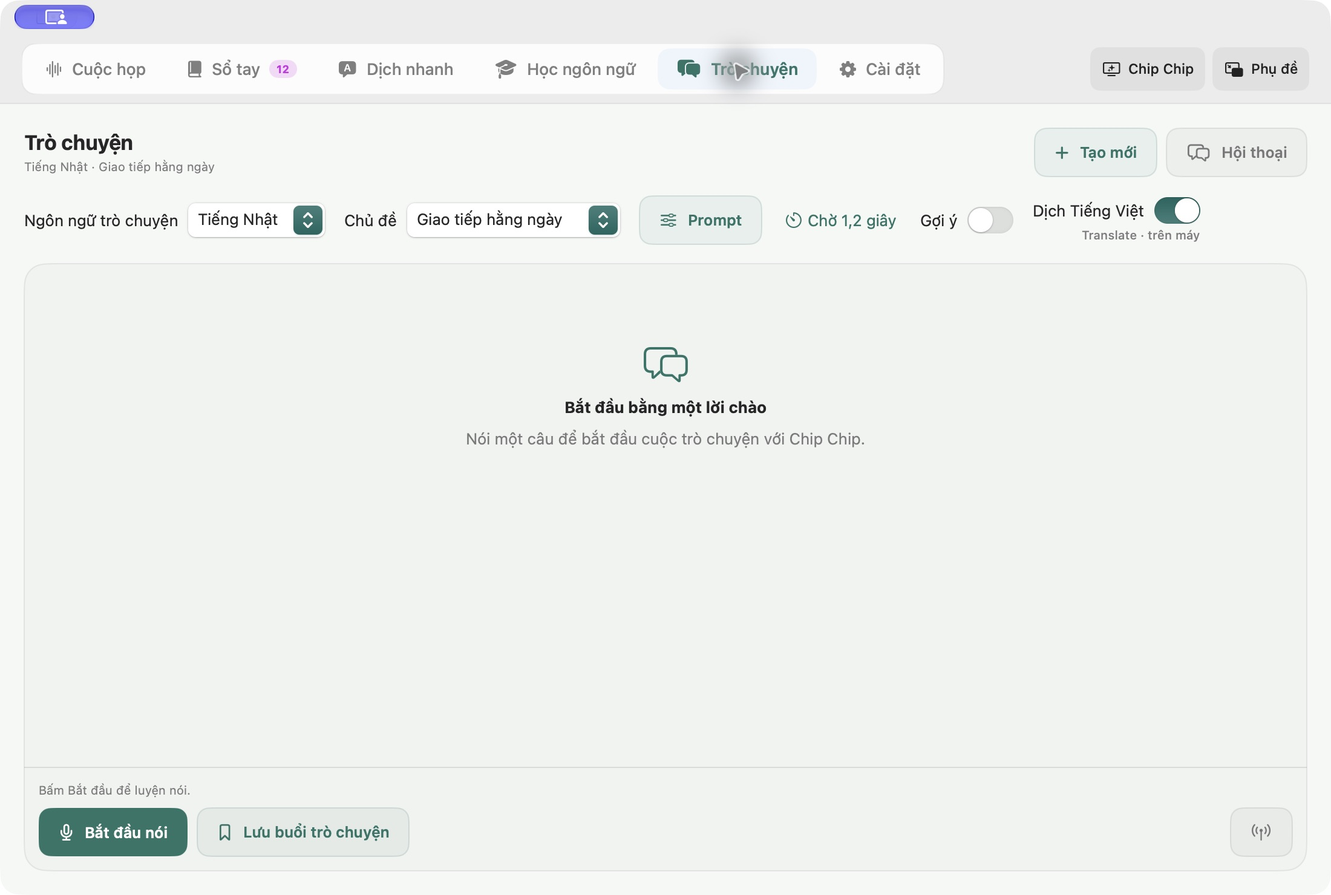
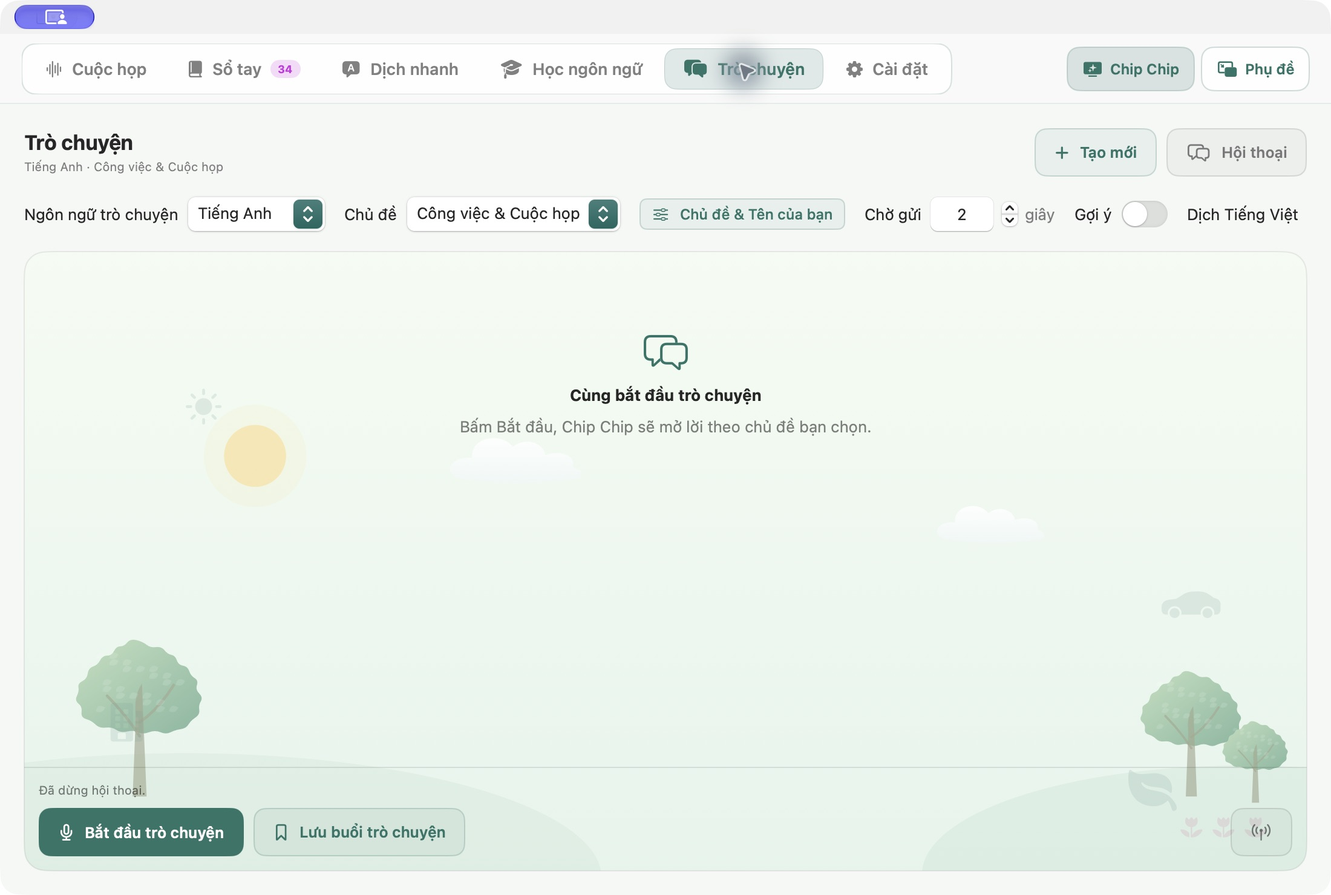
Refresh website feature guide and app screenshots

diff --git a/docs/index.html b/docs/index.html
@@ -5,18 +5,18 @@
 <title>Trans Tools — Hiểu cuộc họp. Tự tin giao tiếp.</title>
 <meta name="description" content="Dịch âm thanh hệ thống, phụ đề nổi, dịch nhanh và học từ vựng trên máy tính. Cùng trợ lý Chip Chip đáng yêu.">
 <meta property="og:title" content="Trans Tools — Hiểu cuộc họp. Tự tin giao tiếp."><meta property="og:description" content="Bộ công cụ ngôn ngữ cho công việc và học tập, cùng trợ lý Chip Chip."><meta property="og:image" content="https://trans-tools.vercel.app/assets/screenshot-dashboard.png">
-<meta name="theme-color" content="#f6f8f6"><link rel="icon" href="assets/app-icon.png"><link rel="stylesheet" href="site.css">
+<meta name="theme-color" content="#f6f8f6"><link rel="icon" href="assets/app-icon.png"><link rel="stylesheet" href="site.css?v=20261007">
 </head>
 <body>
 <nav class="nav wrap" aria-label="Điều hướng chính"><a class="brand" href="#"><img src="assets/app-icon.png" alt="" width="32" height="32">Trans Tools</a><div class="nav-links"><a href="#features">Tính năng</a><a href="#chipchip">Chip Chip</a><a href="guide">Hướng dẫn</a><a href="#start">Bắt đầu</a></div><a class="button small dark" href="#downloads">Tải ứng dụng <span aria-hidden="true">↗</span></a></nav>
 <main>
-<header class="hero wrap"><div class="hero-copy"><p class="eyebrow"><span class="dot"></span> NGƯỜI BẠN NGÔN NGỮ CỦA BẠN</p><h1>Hiểu cuộc họp.<br><span>Tự tin giao tiếp.</span></h1><p class="intro">Nghe, dịch, ghi nhớ. Trans Tools mang phụ đề trực tiếp, dịch nhanh và sổ từ vựng về cùng một nơi — ngay trên máy tính của bạn. Trò chuyện cùng AI theo chủ đề bạn chọn; học tiếng Anh, Nhật, Trung và Hàn theo mục tiêu hằng ngày.</p><div class="actions"><a class="button dark" href="#downloads">Tải Trans Tools <span aria-hidden="true">↓</span></a><a class="text-link" href="#features">Khám phá ứng dụng <span aria-hidden="true">↘</span></a></div><p class="hero-meta">v1.4.1 <span>•</span> macOS & Windows <span>•</span> Translate & các bộ dịch AI</p></div><div class="hero-art"><div class="orbit one"></div><div class="orbit two"></div><div class="hello">Xin chào, mình là Chip Chip! <span>✦</span></div><img class="hero-mascot" src="assets/chip-chip-front.png" alt="Chip Chip, robot trắng đeo tai nghe mint với đôi mắt xanh và nụ cười nhỏ" width="621" height="783"><div class="garden"><span>✿</span><i></i><span>✿</span></div><div class="float-note note-one"><b>EN → VI</b><span>Ngôn ngữ gần nhau hơn.</span></div><div class="float-note note-two"><span class="pulse">▂ ▅ ▃ ▆ ▂</span><b>Nghe. Hiểu. Kết nối.</b></div></div></header>
+<header class="hero wrap"><div class="hero-copy"><p class="eyebrow"><span class="dot"></span> NGƯỜI BẠN NGÔN NGỮ CỦA BẠN</p><h1>Hiểu cuộc họp.<br><span>Tự tin giao tiếp.</span></h1><p class="intro">Nghe, dịch, ghi nhớ. Trans Tools mang phụ đề trực tiếp, dịch nhanh và sổ từ vựng về cùng một nơi — ngay trên máy tính của bạn. Trò chuyện cùng AI theo chủ đề bạn chọn; học tiếng Anh, Nhật, Trung và Hàn theo mục tiêu hằng ngày.</p><div class="actions"><a class="button dark" href="#downloads">Tải Trans Tools <span aria-hidden="true">↓</span></a><a class="text-link" href="#features">Khám phá ứng dụng <span aria-hidden="true">↘</span></a></div><p class="hero-meta">v1.4.2 <span>•</span> Mac & Windows <span>•</span> Translate & các bộ dịch AI</p></div><div class="hero-art"><div class="orbit one"></div><div class="orbit two"></div><div class="hello">Xin chào, mình là Chip Chip! <span>✦</span></div><img class="hero-mascot" src="assets/chip-chip-front.png" alt="Chip Chip, robot trắng đeo tai nghe mint với đôi mắt xanh và nụ cười nhỏ" width="621" height="783"><div class="garden"><span>✿</span><i></i><span>✿</span></div><div class="float-note note-one"><b>EN → VI</b><span>Ngôn ngữ gần nhau hơn.</span></div><div class="float-note note-two"><span class="pulse">▂ ▅ ▃ ▆ ▂</span><b>Nghe. Hiểu. Kết nối.</b></div></div></header>
 <div class="use-cases wrap"><span>DÀNH CHO MỖI NGÀY CỦA BẠN</span><p>Họp quốc tế</p><p>Đọc & viết</p><p>Học ngoại ngữ</p><p>Làm việc mỗi ngày</p></div>
-<section id="features" class="section wrap"><div class="section-head"><div><p class="eyebrow">MỘT APP, NHIỀU CÁCH KẾT NỐI</p><h2>Từ cuộc họp đến<br>những câu chuyện hằng ngày.</h2></div><p>Giao diện thật, tính năng thật.<br>Chọn một mục để xem Trans Tools đang làm gì.</p></div><div class="showcase"><div class="tabs" role="tablist" aria-label="Xem tính năng"><button role="tab" id="tab-meeting" aria-controls="feature-panel" aria-selected="true" data-feature="meeting">01 · Cuộc họp</button><button role="tab" id="tab-translate" aria-controls="feature-panel" aria-selected="false" tabindex="-1" data-feature="translate">02 · Dịch nhanh</button><button role="tab" id="tab-reader" aria-controls="feature-panel" aria-selected="false" tabindex="-1" data-feature="reader">03 · Đọc văn bản</button><button role="tab" id="tab-learning" aria-controls="feature-panel" aria-selected="false" tabindex="-1" data-feature="learning">04 · Học ngôn ngữ</button><button role="tab" id="tab-alphabet" aria-controls="feature-panel" aria-selected="false" tabindex="-1" data-feature="alphabet">05 · Chữ & Viết</button><button role="tab" id="tab-conversation" aria-controls="feature-panel" aria-selected="false" tabindex="-1" data-feature="conversation">06 · Trò chuyện</button><button role="tab" id="tab-voices" aria-controls="feature-panel" aria-selected="false" tabindex="-1" data-feature="voices">07 · Giọng đọc</button><button role="tab" id="tab-storage" aria-controls="feature-panel" aria-selected="false" tabindex="-1" data-feature="storage">08 · Lưu trữ</button></div><div id="feature-panel" role="tabpanel" aria-labelledby="tab-meeting"><div class="feature-copy"><div><span id="feature-tag" class="tag">ÂM THANH → VĂN BẢN</span><h3 id="feature-title">Theo kịp cuộc họp, bằng ngôn ngữ của bạn.</h3></div><p id="feature-description">Chọn âm thanh hệ thống hoặc ứng dụng cần nghe trước khi bắt đầu. Xem tiếng gốc, bản dịch hoặc phụ đề song ngữ; mở phụ đề nổi để theo dõi trong lúc làm việc.</p></div><button class="screenshot-button" aria-label="Phóng to ảnh giao diện"><img id="feature-image" src="assets/screenshot-dashboard.png" alt="Giao diện cuộc họp Trans Tools với nút chọn nguồn âm thanh và bắt đầu" width="980" height="720"><span>Xem ảnh lớn ↗</span></button></div><p class="capture-caption">Chụp trực tiếp từ app ngày 04/10/2026 · Giao diện trước khi đóng gói v1.4.1.</p></div><div class="feature-grid"><article><span class="icon">↗</span><h3>Âm thanh từ máy tính</h3><p>Nghe âm thanh hệ thống hoặc ứng dụng họp. Chọn nguồn phù hợp, theo dõi cuộc trò chuyện ngay trên màn hình.</p></article><article><span class="icon">⌥</span><h3>Dịch ngay nơi bạn đang đọc</h3><p>Bôi đen văn bản, nhấn Option + D để dịch. Option + F sửa ngữ pháp; Option + T mở Dịch nhanh. Chụp & dịch màn hình giúp đọc chữ trong hình ảnh; kiểm tra và sửa nội dung trước khi dịch.</p></article><article><span class="icon">✦</span><h3>Bộ dịch theo cách bạn làm việc</h3><p>Translate, Google Dịch hoặc kết nối Gemini, OpenAI, DeepSeek, Claude bằng khóa kết nối. AI có tùy chọn chuyên ngành và gợi ý trả lời.</p></article></div><p><a class="text-link" href="guide">Hướng dẫn trò chuyện, giọng đọc & dịch màn hình ↗</a></p></section>
-<section class="section wrap" aria-labelledby="new-features-title"><div class="section-head"><div><p class="eyebrow">THÊM CÁCH HỌC VÀ GIAO TIẾP</p><h2 id="new-features-title">Chọn câu chuyện.<br>Chọn cách lắng nghe.</h2></div><p>Có trong phiên bản 1.4.1.<br>Chọn tính năng phù hợp với nhu cầu của bạn.</p></div><div class="feature-grid"><article><span class="icon">☏</span><h3>Trò chuyện theo chủ đề</h3><p>Mở tab Trò chuyện, chọn công việc, du lịch, phỏng vấn hay công nghệ. Thêm prompt để Chip Chip đóng vai người bạn muốn luyện cùng. Lưu và tiếp tục buổi nói với đúng bối cảnh.</p></article><article><span class="icon">♪</span><h3>Giọng tự nhiên Local</h3><p>Chọn công cụ và giọng riêng cho từng ngôn ngữ. Supertonic 3 đọc offline bằng tiếng Việt, Anh, Nhật và Hàn; VieNeu-TTS v3 Turbo là lựa chọn bổ sung cho tiếng Việt. Tải khi cần, dùng chung cho trò chuyện và đọc văn bản.</p></article><article><span class="icon">↔</span><h3>Phụ đề theo từng câu</h3><p>Tách câu theo dấu câu và giới hạn độ dài đoạn nói liên tục. Giữ phần đang nói dở, chờ thêm ngữ cảnh cho cụm ngắn và giữ bản dịch trước trong khi chờ câu mới.</p></article></div></section>
-<section class="section wrap" aria-labelledby="tools-title"><div class="section-head"><div><p class="eyebrow">TÙY CHỈNH THEO CÁCH BẠN HỌC</p><h2 id="tools-title">Nghe dễ dàng hơn.<br>Quản lý rõ ràng hơn.</h2></div><p>Các tiện ích mới trong phiên bản 1.4.1.<br>Tìm hướng dẫn chi tiết ngay bên dưới.</p></div><div class="feature-grid"><article><span class="icon" aria-hidden="true">♪</span><h3>Đọc văn bản &amp; lưu audio</h3><p>Dán đoạn văn, chọn ngôn ngữ, giọng và tốc độ. Lưu WAV với mô hình Local đã cài hoặc MP3 với Edge. Tùy chọn AI chuẩn hóa cách đọc số La Mã, ngày tháng và tỷ lệ; văn bản gốc giữ nguyên.</p></article><article><span class="icon" aria-hidden="true">⚙</span><h3>Chọn AI và model khả dụng</h3><p>Lưu khóa kết nối rồi tải danh sách model từ nhà cung cấp. Chọn model riêng cho Gemini, OpenAI, Claude hoặc DeepSeek; cập nhật lại danh sách khi cần.</p></article><article><span class="icon" aria-hidden="true">▤</span><h3>Biết dữ liệu đang chiếm bao nhiêu</h3><p>Xem dung lượng mô hình, bản ghi phát âm và cache trong Lưu trữ &amp; Dữ liệu. Mở thư mục, dọn cache hoặc gỡ mô hình vào Thùng rác. Sổ tay, từ vựng và khóa kết nối được giữ lại.</p></article></div><p><a class="text-link" href="guide#voices">Chọn giọng, lưu audio &amp; quản lý dữ liệu ↗</a></p></section>
+<section id="features" class="section wrap"><div class="section-head"><div><p class="eyebrow">MỘT APP, NHIỀU CÁCH KẾT NỐI</p><h2>Từ cuộc họp đến<br>những câu chuyện hằng ngày.</h2></div><p>Giao diện thật, tính năng thật.<br>Chọn một mục để xem Trans Tools đang làm gì.</p></div><div class="showcase"><div class="tabs" role="tablist" aria-label="Xem tính năng"><button role="tab" id="tab-meeting" aria-controls="feature-panel" aria-selected="true" data-feature="meeting">01 · Cuộc họp</button><button role="tab" id="tab-translate" aria-controls="feature-panel" aria-selected="false" tabindex="-1" data-feature="translate">02 · Dịch nhanh</button><button role="tab" id="tab-reader" aria-controls="feature-panel" aria-selected="false" tabindex="-1" data-feature="reader">03 · Đọc văn bản</button><button role="tab" id="tab-learning" aria-controls="feature-panel" aria-selected="false" tabindex="-1" data-feature="learning">04 · Học ngôn ngữ</button><button role="tab" id="tab-alphabet" aria-controls="feature-panel" aria-selected="false" tabindex="-1" data-feature="alphabet">05 · Chữ & Viết</button><button role="tab" id="tab-conversation" aria-controls="feature-panel" aria-selected="false" tabindex="-1" data-feature="conversation">06 · Trò chuyện</button><button role="tab" id="tab-notebook" aria-controls="feature-panel" aria-selected="false" tabindex="-1" data-feature="notebook">07 · Sổ tay</button><button role="tab" id="tab-vocabulary" aria-controls="feature-panel" aria-selected="false" tabindex="-1" data-feature="vocabulary">08 · Từ vựng</button><button role="tab" id="tab-voices" aria-controls="feature-panel" aria-selected="false" tabindex="-1" data-feature="voices">09 · Giọng đọc</button><button role="tab" id="tab-personal" aria-controls="feature-panel" aria-selected="false" tabindex="-1" data-feature="personal">10 · Giọng của tôi</button><button role="tab" id="tab-models" aria-controls="feature-panel" aria-selected="false" tabindex="-1" data-feature="models">11 · Bộ giọng</button><button role="tab" id="tab-storage" aria-controls="feature-panel" aria-selected="false" tabindex="-1" data-feature="storage">12 · Lưu trữ</button></div><div id="feature-panel" role="tabpanel" aria-labelledby="tab-meeting"><div class="feature-copy"><div><span id="feature-tag" class="tag">ÂM THANH → VĂN BẢN</span><h3 id="feature-title">Theo kịp cuộc họp, bằng ngôn ngữ của bạn.</h3></div><p id="feature-description">Chọn âm thanh hệ thống hoặc ứng dụng cần nghe trước khi bắt đầu. Xem tiếng gốc, bản dịch hoặc phụ đề song ngữ; mở phụ đề nổi để theo dõi trong lúc làm việc.</p></div><button class="screenshot-button" aria-label="Phóng to ảnh giao diện"><img id="feature-image" src="assets/screenshot-dashboard.png" alt="Giao diện cuộc họp Trans Tools với nút chọn nguồn âm thanh và bắt đầu" width="980" height="720"><span>Xem ảnh lớn ↗</span></button></div><p class="capture-caption">Ảnh giao diện thực tế · Bổ sung ảnh các tính năng mới ngày 07/10/2026.</p></div><div class="feature-grid"><article><span class="icon">↗</span><h3>Âm thanh từ máy tính</h3><p>Nghe âm thanh hệ thống hoặc ứng dụng họp. Chọn nguồn phù hợp, theo dõi cuộc trò chuyện ngay trên màn hình.</p></article><article><span class="icon">⌥</span><h3>Dịch ngay nơi bạn đang đọc</h3><p>Bôi đen văn bản, nhấn Option + D để dịch. Option + F sửa ngữ pháp; Option + T mở Dịch nhanh. Chụp & dịch màn hình giúp đọc chữ trong hình ảnh; kiểm tra và sửa nội dung trước khi dịch.</p></article><article><span class="icon">✦</span><h3>Bộ dịch theo cách bạn làm việc</h3><p>Translate, Google Dịch hoặc kết nối Gemini, OpenAI, DeepSeek, Claude bằng khóa kết nối. AI có tùy chọn chuyên ngành và gợi ý trả lời.</p></article></div><p><a class="text-link" href="guide">Hướng dẫn trò chuyện, giọng đọc & dịch màn hình ↗</a></p></section>
+<section class="section wrap" aria-labelledby="new-features-title"><div class="section-head"><div><p class="eyebrow">THÊM CÁCH HỌC VÀ GIAO TIẾP</p><h2 id="new-features-title">Chọn câu chuyện.<br>Chọn cách lắng nghe.</h2></div><p>Có trong phiên bản 1.4.2.<br>Chọn tính năng phù hợp với nhu cầu của bạn.</p></div><div class="feature-grid"><article><span class="icon">☏</span><h3>Trò chuyện theo chủ đề</h3><p>Mở tab Trò chuyện, chọn công việc, du lịch, phỏng vấn hay công nghệ. Mô tả tình huống để Chip Chip đóng vai người bạn muốn luyện cùng. Lưu và tiếp tục buổi nói với đúng bối cảnh.</p></article><article><span class="icon">♪</span><h3>Giọng đọc Offline</h3><p>Chọn công cụ và giọng riêng cho từng ngôn ngữ. Supertonic 3 đọc offline bằng tiếng Việt, Anh, Nhật và Hàn; VieNeu-TTS v3 Turbo là lựa chọn bổ sung cho tiếng Việt. Tải khi cần, dùng chung cho trò chuyện và đọc văn bản.</p></article><article><span class="icon">↔</span><h3>Phụ đề và bản ghi cuộc họp</h3><p>Xem tiếng gốc, bản dịch hoặc song ngữ. Mở cửa sổ phụ đề nổi để theo dõi cùng công việc; lưu bản ghi để tìm kiếm và xem lại sau cuộc họp.</p></article></div></section>
+<section class="section wrap" aria-labelledby="tools-title"><div class="section-head"><div><p class="eyebrow">TÙY CHỈNH THEO CÁCH BẠN HỌC</p><h2 id="tools-title">Nghe dễ dàng hơn.<br>Quản lý rõ ràng hơn.</h2></div><p>Các tiện ích mới trong phiên bản 1.4.2.<br>Tìm hướng dẫn chi tiết ngay bên dưới.</p></div><div class="feature-grid"><article><span class="icon" aria-hidden="true">♪</span><h3>Đọc văn bản &amp; lưu audio</h3><p>Dán đoạn văn, chọn ngôn ngữ, giọng và tốc độ. Lưu WAV với bộ giọng Offline đã cài hoặc MP3 với Edge. Tùy chọn AI chuẩn hóa cách đọc số La Mã, ngày tháng và tỷ lệ; văn bản gốc giữ nguyên.</p></article><article><span class="icon" aria-hidden="true">⚙</span><h3>Kết nối AI bạn muốn dùng</h3><p>Lưu khóa kết nối rồi tải danh sách mô hình từ nhà cung cấp. Chọn mô hình riêng cho Gemini, OpenAI, Claude hoặc DeepSeek; cập nhật lại danh sách khi cần.</p></article><article><span class="icon" aria-hidden="true">▤</span><h3>Biết dữ liệu đang chiếm bao nhiêu</h3><p>Xem dung lượng mô hình, bản ghi phát âm và dữ liệu tạm trong Lưu trữ &amp; Dữ liệu. Mở thư mục, dọn dữ liệu tạm hoặc gỡ mô hình vào Thùng rác. Sổ tay, từ vựng và khóa kết nối được giữ lại.</p></article></div><p><a class="text-link" href="guide">Chọn giọng, lưu audio &amp; quản lý dữ liệu ↗</a></p></section>
 <section id="chipchip" class="pet-section"><div class="wrap"><div class="section-head"><div><p class="eyebrow">GẶP CHIP CHIP</p><h2>Một chút dễ thương.<br>Một người bạn bên cạnh.</h2></div><p>Dịch nhanh khi bạn cần.<br>Thảnh thơi cùng bạn khi công việc tạm nghỉ.</p></div><div class="pet-layout"><div class="pet-scene" data-time="day"><div class="sky-glow"></div><div class="sun" aria-hidden="true">☀<span>◡</span></div><div class="moon" aria-hidden="true">☾</div><div class="cloud c1"></div><div class="cloud c2"></div><img id="scene-mascot" src="assets/chip-chip-flowers.png" alt="Chip Chip cầm hoa" width="621" height="783"><div class="scene-ground"><span>✿</span><span>❀</span><span>✿</span><span>❀</span></div><div class="time-control" role="group" aria-label="Minh họa bầu trời"><button data-time="day" aria-pressed="true">Ban ngày</button><button data-time="evening" aria-pressed="false">Chiều</button><button data-time="night" aria-pressed="false">Ban đêm</button></div><p class="scene-label">Chip Chip đồng hành cùng bạn</p></div><div class="pet-copy"><span class="tag">TRỢ LÝ NỔI TRÊN MÀN HÌNH</span><h3>Biết giúp đỡ.<br>Cũng biết nghỉ ngơi.</h3><p>Chip Chip mang các tiện ích dịch và học từ vựng tới gần bạn. Khi bạn nghỉ thao tác đủ lâu, bạn nhỏ chọn hoạt cảnh dựa trên thời gian, trạng thái làm việc và mức độ hoạt động.</p><ul><li>Cùng Chip Chip học chữ trên bảng ô ly riêng cạnh mascot.</li><li>Biểu cảm đáng yêu, nhiều hoạt động gần gũi.</li><li>Viết vào sổ, uống cà phê, hái hoa, bắt bướm hay ngủ một giấc.</li><li>Đi dạo dọc Dock cùng hoa cỏ, bướm và chim nhỏ.</li><li>Bầu trời theo giờ trên máy, có ông mặt trời và trăng sao.</li></ul><div class="activity-pills" role="group" aria-label="Xem hoạt cảnh Chip Chip"><button data-pet="flowers" aria-pressed="true">Hái hoa</button><button data-pet="coffee" aria-pressed="false">Cà phê</button><button data-pet="writing" aria-pressed="false">Ghi chép</button><button data-pet="sleeping" aria-pressed="false">Ngủ ngon</button></div></div></div></div></section>
-<section id="start" class="section wrap"><div class="section-head"><div><p class="eyebrow">BẮT ĐẦU THẬT NHẸ NHÀNG</p><h2>Sẵn sàng cho<br>cuộc họp tiếp theo.</h2></div><a class="text-link" href="/releases">Xem bản mới nhất ↗</a></div><div class="steps"><article><span>01</span><h3>Tải & mở app</h3><p>Chọn nền tảng phù hợp (macOS hoặc Windows) và cài đặt. Cả hai hệ điều hành đều hỗ trợ đầy đủ tính năng.</p></article><article><span>02</span><h3>Chọn nguồn & ngôn ngữ</h3><p>Chọn âm thanh hệ thống hoặc ứng dụng muốn nghe. Chọn ngôn ngữ, chế độ phụ đề và bộ dịch phù hợp.</p></article><article><span>03</span><h3>Bấm Bắt đầu</h3><p>Cấp các quyền hệ thống được yêu cầu cho nguồn đã chọn. Mở phụ đề nổi và theo dõi nội dung cuộc họp.</p></article></div><div class="privacy"><span>↳</span><div><h3>Bạn chọn cách xử lý nội dung.</h3><p>Nhận diện giọng nói có chế độ trên thiết bị. Bộ dịch Local xử lý trên thiết bị và có thể cần tải ngôn ngữ. Khi dùng Google hoặc dịch vụ AI đám mây, văn bản được gửi tới nhà cung cấp đã chọn; Khóa kết nối và hạn mức phụ thuộc dịch vụ.</p></div></div><div id="downloads" class="download-card"><img loading="lazy" src="assets/chip-chip-coffee.png" alt="Chip Chip đang cầm cốc cà phê" width="621" height="783"><div><p class="eyebrow">CHỌN NỀN TẢNG CỦA BẠN</p><h2>Làm việc tự tin hơn.<br>Cùng Trans Tools.</h2><div class="platform-downloads"><div class="platform-download"><div class="platform-heading"><span class="platform-icon" aria-hidden="true"><svg viewBox="0 0 24 24" fill="none" stroke="currentColor" stroke-width="1.6" stroke-linecap="round" stroke-linejoin="round"><rect x="3" y="3" width="18" height="13" rx="2"/><path d="M9 21h6M12 16v5M3 12h18"/></svg></span><strong>Mac</strong></div><p>Phiên bản 1.4.1 · Hệ điều hành 14 trở lên</p><a class="button dark" href="/download?format=dmg"><svg class="download-icon" aria-hidden="true" viewBox="0 0 24 24" fill="none" stroke="currentColor" stroke-width="1.8" stroke-linecap="round" stroke-linejoin="round"><path d="M12 3v12m-5-5 5 5 5-5M4 16v4h16v-4"/></svg>Tải cho Mac · DMG</a></div><div class="platform-download"><div class="platform-heading"><span class="platform-icon" aria-hidden="true"><svg viewBox="0 0 24 24" fill="currentColor"><path d="M3 5.2 10.5 4.2v7H3zm9-1.2L21 2.8v8.4h-9zM3 12.8h7.5v7L3 18.8zm9 0h9v8.4L12 20z"/></svg></span><strong>Windows</strong></div><p>Phiên bản 1.4.1 · Windows 10/11 64-bit</p><a class="button dark" href="/download?format=exe"><svg class="download-icon" aria-hidden="true" viewBox="0 0 24 24" fill="none" stroke="currentColor" stroke-width="1.8" stroke-linecap="round" stroke-linejoin="round"><path d="M12 3v12m-5-5 5 5 5-5M4 16v4h16v-4"/></svg>Tải cho Windows · EXE</a></div></div></div></div></section>
+<section id="start" class="section wrap"><div class="section-head"><div><p class="eyebrow">BẮT ĐẦU THẬT NHẸ NHÀNG</p><h2>Sẵn sàng cho<br>cuộc họp tiếp theo.</h2></div><a class="text-link" href="/releases">Xem bản mới nhất ↗</a></div><div class="steps"><article><span>01</span><h3>Tải & mở app</h3><p>Chọn nền tảng phù hợp (macOS hoặc Windows) và cài đặt. Ảnh giao diện trên trang được chụp từ bản Mac. Bản Windows đang tiếp tục hoàn thiện và kiểm thử.</p></article><article><span>02</span><h3>Chọn nguồn & ngôn ngữ</h3><p>Chọn âm thanh hệ thống hoặc ứng dụng muốn nghe. Chọn ngôn ngữ, chế độ phụ đề và bộ dịch phù hợp.</p></article><article><span>03</span><h3>Bấm Bắt đầu</h3><p>Cấp các quyền hệ thống được yêu cầu cho nguồn đã chọn. Mở phụ đề nổi và theo dõi nội dung cuộc họp.</p></article></div><div class="privacy"><span>↳</span><div><h3>Bạn chọn cách xử lý nội dung.</h3><p>Nhận diện giọng nói có chế độ trên thiết bị. Bộ dịch Offline xử lý trên thiết bị và có thể cần tải ngôn ngữ. Khi dùng Google hoặc dịch vụ AI đám mây, văn bản được gửi tới nhà cung cấp đã chọn; Khóa kết nối và hạn mức phụ thuộc dịch vụ.</p></div></div><div id="downloads" class="download-card"><img loading="lazy" src="assets/chip-chip-coffee.png" alt="Chip Chip đang cầm cốc cà phê" width="621" height="783"><div><p class="eyebrow">CHỌN NỀN TẢNG CỦA BẠN</p><h2>Làm việc tự tin hơn.<br>Cùng Trans Tools.</h2><div class="platform-downloads"><div class="platform-download"><div class="platform-heading"><span class="platform-icon" aria-hidden="true"><svg viewBox="0 0 24 24" fill="none" stroke="currentColor" stroke-width="1.6" stroke-linecap="round" stroke-linejoin="round"><rect x="3" y="3" width="18" height="13" rx="2"/><path d="M9 21h6M12 16v5M3 12h18"/></svg></span><strong>Mac</strong></div><p>Phiên bản 1.4.2 · Hệ điều hành 14 trở lên</p><a class="button dark" href="https://github.com/duynk-tech/TransTools/releases/latest/download/TransTools.dmg"><svg class="download-icon" aria-hidden="true" viewBox="0 0 24 24" fill="none" stroke="currentColor" stroke-width="1.8" stroke-linecap="round" stroke-linejoin="round"><path d="M12 3v12m-5-5 5 5 5-5M4 16v4h16v-4"/></svg>Tải cho Mac · DMG</a></div><div class="platform-download"><div class="platform-heading"><span class="platform-icon" aria-hidden="true"><svg viewBox="0 0 24 24" fill="currentColor"><path d="M3 5.2 10.5 4.2v7H3zm9-1.2L21 2.8v8.4h-9zM3 12.8h7.5v7L3 18.8zm9 0h9v8.4L12 20z"/></svg></span><strong>Windows</strong></div><p>Bản thử nghiệm · Windows 10/11 64-bit</p><a class="button dark" href="https://github.com/duynk-tech/TransTools/releases/latest/download/TransTools-Setup.exe"><svg class="download-icon" aria-hidden="true" viewBox="0 0 24 24" fill="none" stroke="currentColor" stroke-width="1.8" stroke-linecap="round" stroke-linejoin="round"><path d="M12 3v12m-5-5 5 5 5-5M4 16v4h16v-4"/></svg>Tải bản thử cho Windows</a></div></div></div></div></section>
 </main><footer class="wrap"><a class="brand" href="#"><img src="assets/app-icon.png" alt="" width="28" height="28">Trans Tools</a><p>Được phát triển bởi DuyNK-Tech · © 2026</p><a href="/releases">Tải ứng dụng ↗</a></footer>
-<dialog id="image-dialog"><button class="dialog-close" aria-label="Đóng ảnh">Đóng ×</button><img src="assets/screenshot-dashboard.png" alt="Ảnh giao diện phóng to"></dialog><script src="site.js?v=20261004"></script>
+<dialog id="image-dialog"><button class="dialog-close" aria-label="Đóng ảnh">Đóng ×</button><img src="assets/screenshot-dashboard.png" alt="Ảnh giao diện phóng to"></dialog><script src="site.js?v=20261007"></script>
 </body></html>

diff --git a/docs/guide.html b/docs/guide.html
@@ -1,1 +1,1 @@
-<!doctype html><html lang="vi"><head><meta charset="utf-8"><meta name="viewport" content="width=device-width,initial-scale=1"><title>Hướng dẫn sử dụng — Trans Tools</title><link rel="stylesheet" href="site.css"><link rel="icon" href="assets/app-icon.png"></head><body><nav class="nav wrap"><a class="brand" href="/">← Trans Tools</a><a class="text-link" href="/#downloads">Tải ứng dụng ↗</a></nav><main class="wrap guide"><p class="eyebrow">HƯỚNG DẪN · 04/10/2026</p><h1>Luyện nói tự tin.<br>Đọc hiểu dễ dàng.</h1><p>Hướng dẫn cho Trans Tools v1.4.1. Một số công cụ cần tải dữ liệu hoặc kết nối dịch vụ AI trước khi dùng.</p><h2>1. Trò chuyện theo chủ đề</h2><ol><li>Trong Cài đặt, kết nối bộ AI và chọn giọng đọc phù hợp.</li><li>Mở tab Trò chuyện trên thanh điều hướng chính. Chọn ngôn ngữ và chủ đề: giao tiếp hằng ngày, công việc, du lịch, phỏng vấn, công nghệ, học tập hoặc chủ đề riêng.</li><li>Chọn Prompt để mô tả vai trò và tình huống, ví dụ “Bạn là đồng nghiệp developer, hỏi tôi về cách debug API”. Chủ đề riêng cần nhập prompt. Bấm Bắt đầu nói, nói một câu rồi dừng để gửi. Menu thời gian chờ cho phép chờ 0,8, 1,2 hoặc 2 giây. Chọn 2 giây nếu bạn cần thêm thời gian nghĩ.</li><li>Bật Dịch Tiếng Việt để xem bản dịch dưới mỗi lượt; tùy chọn ẩn khi chọn tiếng Việt. Gợi ý mặc định tắt; bật khi cần luyện phản xạ.</li><li>Khi AI đang đọc, bấm Nói tiếp để dừng phần đọc và chuyển sang lượt của bạn.</li></ol><figure><img src="assets/screenshot-ai-conversation.png" alt="Giao diện luyện nói theo lượt với bảng gợi ý bên phải"><figcaption>Ảnh app ngày 04/10/2026 · Trò chuyện chưa bắt đầu.</figcaption></figure><p>Đây là giao tiếp theo lượt. Thời gian nhận câu trả lời và tạo giọng còn phụ thuộc kết nối, nhà cung cấp và hạn mức AI.</p><h2>2. Tiếp tục một buổi đã lưu</h2><p>Kết thúc buổi nói để lưu lại, hoặc bấm Lưu buổi trò chuyện. Mở Hội thoại trong tab Trò chuyện để tạo mới, mở lại hoặc xóa buổi. Bạn cũng có thể vào Sổ tay, chọn buổi luyện nói và bấm Tiếp tục trò chuyện. Lịch sử, chủ đề, prompt và bản dịch được mở lại; bấm Tiếp tục nói để nối tiếp. App cập nhật cùng buổi, giữ tên và ghi chú bạn đã sửa.</p><h2>3. Chụp & dịch màn hình</h2><ol><li>Mở menu Dịch & chỉnh câu → Chụp & Dịch màn hình, hoặc thử Option + S.</li><li>Kéo chọn vùng có chữ. Hệ thống cần quyền ghi màn hình.</li><li>Kiểm tra chữ nhận diện, sửa lỗi nếu cần và chọn ngôn ngữ nguồn/đích.</li><li>Bấm Dịch, rồi Sao chép để dùng kết quả.</li></ol><p>Nhận diện chữ chạy trên máy với Apple Vision. App ưu tiên Translate; khi không khả dụng sẽ thử AI đã cấu hình, sau đó Google. Văn bản chỉ được gửi đi khi bạn bấm Dịch. Câu quá ngắn, nhiều ngôn ngữ hoặc ảnh mờ có thể cần chọn lại ngôn ngữ.</p><h2>4. Một vòng học mỗi ngày</h2><p>Chọn tiếng Anh, Nhật, Trung hoặc Hàn. Ôn từ đến hạn, nghe một câu mẫu và luyện một tình huống. Chữ & Viết giúp bạn làm quen với bảng chữ cái và cách viết; Mục tiêu điều chỉnh nội dung theo nhu cầu công việc, đời sống hoặc phỏng vấn.</p><figure><img src="assets/screenshot-learning.png" alt="Vòng học hằng ngày trong Trans Tools"><figcaption>Ôn tập, nghe và luyện giao tiếp trong cùng một màn hình.</figcaption></figure><figure><img src="assets/screenshot-alphabet.png" alt="Chữ và Viết tiếng Nhật trong app hiện tại"><figcaption>Chữ &amp; Viết · ảnh app ngày 04/10/2026.</figcaption></figure><h2 id="voices">5. Chọn giọng đọc theo ngôn ngữ</h2><p>Vào Cài đặt → Giọng đọc &amp; Phát âm. Chọn ngôn ngữ rồi chọn công cụ và giọng. Lựa chọn được lưu riêng cho từng ngôn ngữ, dùng chung cho Trò chuyện, phụ đề, Sổ tay, từ vựng, Flashcard và Đọc văn bản.</p><p>Supertonic 3 là giọng Local mặc định cho bản cài mới, hỗ trợ Việt, Anh, Nhật và Hàn. Đọc giấy phép trước khi tải dữ liệu. VieNeu-TTS v3 Turbo là mô hình bổ sung cho tiếng Việt; bộ xử lý đã đi kèm app, chỉ tải dữ liệu khi bạn chọn cài. Giọng cơ bản là lựa chọn dự phòng; Edge cần mạng. Những lựa chọn đã lưu được giữ nguyên.</p><p>Chọn tốc độ, âm lượng rồi bấm Nghe thử. Bài học âm và chữ cơ bản dùng bản ghi tham chiếu riêng; TTS không thay thế nguồn phát âm mẫu. Nguồn học liệu được liệt kê trong Giới thiệu của app.</p><figure><img src="assets/screenshot-voices.png" alt="Cấu hình giọng đọc và mô hình Local"><figcaption>Cấu hình giọng theo ngôn ngữ.</figcaption></figure><h2>6. Nhịp phụ đề &amp; chia câu</h2><p>Chọn Nhanh, Cân bằng hoặc Đủ ngữ cảnh tại Cài đặt → Dịch &amp; Phụ đề. Cụm ngắn chưa kết câu chờ thêm khoảng ngắt; câu đã chốt có thể dịch ngay. Lời nói liên tục được chia theo câu hoặc giới hạn khoảng 28 từ / 160 ký tự. Phần cuối đang nói dở tiếp tục cập nhật; chia câu không khởi động lại thu âm.</p><p>Chế độ Chỉ bản dịch giữ câu dịch gần nhất trong khi chờ câu mới. Kết quả dịch cho câu gốc đã thay đổi được bỏ qua; tự đọc chỉ phát câu đã chốt. Nhận dạng và dịch vẫn có thể sai, cần kiểm tra trước khi dùng làm biên bản.</p><h2 id="audio">7. Đọc văn bản &amp; lưu audio</h2><ol><li>Mở Dịch nhanh → Đọc văn bản, dán nội dung và chọn ngôn ngữ.</li><li>Chọn giọng trong Cài đặt, bấm đọc và điều chỉnh tốc độ theo nhu cầu.</li><li>Khi công cụ hỗ trợ xuất, chọn Lưu audio: WAV với mô hình Local đã cài, MP3 với Edge. Giọng cơ bản không hỗ trợ xuất.</li></ol><p>Nếu đã cấu hình AI, có thể bật chuẩn hóa cách đọc số La Mã, ngày tháng và tỷ lệ. Nội dung được gửi tới AI đã chọn; văn bản gốc giữ nguyên. Kiểm tra bản đọc trước khi sử dụng hoặc chia sẻ.</p><figure><img src="assets/screenshot-text-reader.png" alt="Đọc văn bản và xuất WAV"><figcaption>Đọc văn bản &amp; lưu audio.</figcaption></figure><h2 id="models">8. Kết nối AI &amp; chọn model</h2><p>Vào Cài đặt → AI &amp; Kết nối. Lưu API key của nhà cung cấp, tải danh sách model rồi chọn model hỗ trợ văn bản. Lựa chọn lưu riêng cho mỗi nhà cung cấp. Nếu model đã lưu không còn trong danh sách, chọn lại model khả dụng; khi tải danh sách thất bại, thử lại. Khóa và hạn mức thuộc tài khoản dịch vụ của bạn.</p><h2 id="storage">9. Quản lý lưu trữ</h2><p>Mở Cài đặt → Lưu trữ &amp; Dữ liệu, bấm Làm mới để xem dung lượng từng nhóm. Các nhóm tùy chọn không có dữ liệu được ẩn để dễ quản lý. Xem thư mục để kiểm tra, Dọn để xóa cache hoặc Gỡ mô hình để chuyển dữ liệu vào Thùng rác. App chặn dọn khi đang họp, đọc hoặc tải mô hình. Sổ tay, từ vựng, hội thoại và API key không bị xóa qua các nút dọn cache.</p><p>Dung lượng ổ đĩa chỉ được giải phóng sau khi bạn làm trống Thùng rác. Hãy kiểm tra dữ liệu trước khi làm việc này; mô hình đã gỡ cần tải lại để sử dụng.</p><figure><img src="assets/screenshot-storage.png" alt="Quản lý dung lượng mô hình và cache"><figcaption>Lưu trữ &amp; Dữ liệu.</figcaption></figure></main><footer class="wrap"><a href="/">Trans Tools</a><p>Được phát triển bởi DuyNK-Tech · © 2026</p></footer></body></html>
+<!doctype html><html lang="vi"><head><meta charset="utf-8"><meta name="viewport" content="width=device-width,initial-scale=1"><title>Hướng dẫn sử dụng — Trans Tools</title><link rel="stylesheet" href="site.css"><link rel="icon" href="assets/app-icon.png"></head><body><nav class="nav wrap"><a class="brand" href="/">← Trans Tools</a><a class="text-link" href="/#downloads">Tải ứng dụng ↗</a></nav><main class="wrap guide"><p class="eyebrow">HƯỚNG DẪN · 07/10/2026</p><h1>Nghe hiểu dễ dàng.<br>Luyện nói tự tin.</h1><p>Hướng dẫn phiên bản 1.4.2. Ảnh từ ứng dụng Mac; bản Windows đang tiếp tục được kiểm thử.</p><section><h2>1. Cuộc họp và phụ đề nổi</h2><p>Chọn nguồn âm thanh và ngôn ngữ, rồi bấm Bắt đầu. Chọn xem tiếng gốc, bản dịch hoặc song ngữ. Mở Phụ đề để theo dõi trong cửa sổ nổi. Khi dừng, nội dung được lưu vào Sổ tay. Nhận dạng và bản dịch có thể sai; kiểm tra trước khi dùng làm biên bản.</p><figure><img loading="lazy" src="assets/screenshot-dashboard.png" alt="Cuộc họp và phụ đề nổi"><figcaption>Cuộc họp và phụ đề nổi trong Trans Tools.</figcaption></figure></section><section><h2>2. Dịch nhanh</h2><p>Nhập hoặc dán văn bản, chọn ngôn ngữ và lĩnh vực. Bấm Dịch ngay hoặc Command + Enter. Có thể sửa ngữ pháp và điều chỉnh cỡ chữ. Dịch màn hình cho phép kiểm tra chữ nhận diện trước khi dịch.</p><figure><img loading="lazy" src="assets/screenshot-quick-translate.png" alt="Dịch nhanh"><figcaption>Dịch nhanh trong Trans Tools.</figcaption></figure></section><section><h2>3. Đọc văn bản</h2><p>Mở Dịch nhanh → Đọc văn bản. Chọn ngôn ngữ, dán nội dung rồi bấm đọc. Lưu âm thanh khi bộ giọng hỗ trợ. Tùy chọn AI hỗ trợ cách đọc số, ngày tháng và tỷ lệ gửi nội dung tới AI đã chọn; văn bản gốc không thay đổi.</p><figure><img loading="lazy" src="assets/screenshot-text-reader.png" alt="Đọc văn bản"><figcaption>Đọc văn bản trong Trans Tools.</figcaption></figure></section><section><h2>4. Học ngôn ngữ</h2><p>Chọn tiếng Anh, Nhật, Trung hoặc Hàn và mục tiêu học. Ôn từ đến hạn, nghe câu và luyện tình huống. Có thể tạo bài theo mục tiêu bằng AI. Chữ &amp; Viết giúp nghe mẫu và luyện viết.</p><figure><img loading="lazy" src="assets/screenshot-learning.png" alt="Học ngôn ngữ"><figcaption>Học ngôn ngữ trong Trans Tools.</figcaption></figure></section><section><h2>5. Trò chuyện</h2><p>Chọn ngôn ngữ, chủ đề và mô tả tình huống. Bấm Bắt đầu để trợ lý mở lời. Thời gian chờ gửi điều chỉnh từ 1 đến 30 giây; chọn lâu hơn nếu bạn cần suy nghĩ. Có thể bật bản dịch tiếng Việt khi nói ngoại ngữ, lưu hội thoại và tiếp tục sau. Cần cấu hình AI; thời gian trả lời phụ thuộc dịch vụ.</p><figure><img loading="lazy" src="assets/screenshot-ai-conversation.png" alt="Trò chuyện"><figcaption>Trò chuyện trong Trans Tools.</figcaption></figure></section><section><h2>6. Sổ tay và từ vựng</h2><p>Lọc cuộc họp hoặc trò chuyện, tìm câu thoại, ghi chú và xuất tài liệu. Lưu từ mới khi dịch, nghe phát âm và ôn bằng thẻ từ.</p><figure><img loading="lazy" src="assets/screenshot-notebook.png" alt="Sổ tay và từ vựng"><figcaption>Sổ tay và từ vựng trong Trans Tools.</figcaption></figure></section><section><h2>7. Chọn giọng theo ngôn ngữ</h2><p>Trong Cài đặt → Giọng đọc &amp; Phát âm, chọn ngôn ngữ, bộ giọng và giọng đọc. Nghe thử, chỉnh tốc độ và âm lượng. Lựa chọn được lưu riêng cho từng ngôn ngữ. Bộ giọng Offline cần tải trước; giọng trực tuyến cần mạng.</p><figure><img loading="lazy" src="assets/screenshot-voices.png" alt="Chọn giọng theo ngôn ngữ"><figcaption>Chọn giọng theo ngôn ngữ trong Trans Tools.</figcaption></figure></section><section><h2>8. Giọng của tôi</h2><p>Mở Cài đặt → Mô hình AI → Giọng của tôi. Thu mẫu, nghe lại và lưu. Tạo hồ sơ với bộ giọng tương thích. Dữ liệu lưu trên thiết bị và có thể quản lý lại. Phiên bản hiện tại chưa có huấn luyện bổ sung; giọng tạo ra chưa bảo đảm sao chép đầy đủ phong cách.</p><figure><img loading="lazy" src="assets/screenshot-personal-voice.png" alt="Giọng của tôi"><figcaption>Giọng của tôi trong Trans Tools.</figcaption></figure></section><section><h2>9. Quản lý bộ giọng</h2><p>Trong Mô hình AI, xem bộ đã cài, cập nhật danh sách và chọn bộ phù hợp cho ngôn ngữ. Nghe so sánh cùng một câu trước khi quyết định. Gỡ bộ không dùng khi muốn tiết kiệm dung lượng.</p><figure><img loading="lazy" src="assets/screenshot-model-manager.png" alt="Quản lý bộ giọng"><figcaption>Quản lý bộ giọng trong Trans Tools.</figcaption></figure></section><section><h2>10. AI và dữ liệu</h2><p>Trong AI &amp; Kết nối, nhập khóa của nhà cung cấp và chọn mô hình đang khả dụng. Khi dùng AI hoặc dịch trực tuyến, văn bản được gửi tới dịch vụ đã chọn. Lưu trữ &amp; Dữ liệu cho biết dung lượng từng nhóm và cho phép dọn dữ liệu tạm; các nút dọn này không xóa Sổ tay, từ vựng hoặc khóa kết nối.</p><figure><img loading="lazy" src="assets/screenshot-storage.png" alt="AI và dữ liệu"><figcaption>AI và dữ liệu trong Trans Tools.</figcaption></figure></section></main><footer class="wrap"><a href="/">Trans Tools</a><p>© 2026 DuyNK-Tech</p></footer></body></html>

diff --git a/docs/site.js b/docs/site.js
@@ -1,13 +1,9 @@
-const features={meeting:['ÂM THANH → VĂN BẢN','Theo kịp cuộc họp, bằng ngôn ngữ của bạn.','Chọn âm thanh hệ thống hoặc ứng dụng cần nghe trước khi bắt đầu. Phụ đề tự chia câu, giữ phần đang nói dở và chờ thêm ngữ cảnh cho cụm ngắn. Xem tiếng gốc, bản dịch hoặc song ngữ; mở phụ đề nổi để theo dõi trong lúc làm việc.','screenshot-dashboard.png','Giao diện cuộc họp Trans Tools với nút chọn nguồn âm thanh và bắt đầu'],translate:['ĐỌC, VIẾT & GIAO TIẾP','Một câu rõ ràng. Một cuộc trao đổi dễ dàng.','Dịch hai chiều, chọn chuyên ngành, sửa ngữ pháp và làm mượt câu. Hai vùng văn bản căn lề thống nhất, có chỉnh cỡ chữ và viền mint khi nhập. Nhấn Command + Enter để dịch nội dung.','screenshot-quick-translate.png','Giao diện Dịch nhanh với chuyên ngành, hai vùng văn bản và nút sửa lỗi'],notebook:['LƯU LẠI ĐỂ XEM LẠI','Cuộc họp kết thúc. Nội dung vẫn ở đây.','Tra cứu bản ghi, tìm câu thoại và ghi chú hành động. Xuất sổ tay sang Word hoặc TXT để tiếp tục công việc sau cuộc họp.','screenshot-notebook.png','Sổ tay cuộc họp có danh sách phiên, nội dung và xuất Word'],vocabulary:['TỪ MỚI → KIẾN THỨC MỚI','Giữ lại những từ bạn muốn nhớ.','Sổ từ vựng gom các từ đã lưu khi dịch. Tìm kiếm, nghe phát âm, đánh dấu đã thuộc và xuất CSV để quản lý việc học.','screenshot-vocabulary.png','Sổ từ vựng với nghĩa tiếng Việt, nghe phát âm và nút luyện Flashcard'],flashcard:['MỖI NGÀY MỘT CHÚT','Lật một thẻ. Nhớ thêm một từ.','Ôn tập từ đã lưu bằng Flashcard: xem từ, lật nghĩa, nghe phát âm và đánh dấu khi đã thuộc.','screenshot-flashcard.png','Giao diện luyện Flashcard trong Trans Tools']};
-features.learning=['HỌC TỪ TÌNH HUỐNG THẬT','Một vòng học nhỏ, mỗi ngày.','Chọn tiếng Anh, Nhật, Trung hoặc Hàn. Ôn từ đến hạn, nghe câu mẫu, luyện tình huống và làm quen với chữ viết theo mục tiêu của bạn.','screenshot-learning.png','Vòng học hằng ngày với ôn tập cách quãng và câu mẫu song ngữ'];
-features.conversation=['NÓI, NGHE & PHẢN XẠ','Trò chuyện cùng Chip Chip.','Mở tab Trò chuyện riêng, chọn ngôn ngữ, chủ đề và prompt để xác định tình huống. Cần key AI; gợi ý mặc định tắt. Bật Dịch Tiếng Việt khi nói ngoại ngữ, chọn chờ 0,8–2 giây và lưu buổi để tiếp tục với cùng bối cảnh.','screenshot-ai-conversation.png','Giao diện trò chuyện AI với vùng chat, nút nói và bảng gợi ý'];
-features.reader=['VĂN BẢN → AUDIO','Nghe đoạn văn theo cách của bạn.','Dán nội dung, chọn ngôn ngữ và giọng theo cấu hình. Lưu WAV với mô hình Local đã cài hoặc MP3 với Edge; chỉ xuất khi công cụ hỗ trợ.','screenshot-text-reader.png','Đọc văn bản với chọn ngôn ngữ, cấu hình giọng và lưu audio WAV'];
-features.alphabet=['NGHE, NHẬN BIẾT & VIẾT','Làm quen từng chữ, từng âm.','Chữ & Viết có bố cục theo ngôn ngữ, bản ghi phát âm tham chiếu và vùng luyện viết. Cùng Chip Chip mở bảng học riêng cạnh mascot.','screenshot-alphabet.png','Bảng Hiragana tiếng Nhật, nghe mẫu và ô luyện viết'];
-features.voices=['GIỌNG RIÊNG CHO TỪNG NGÔN NGỮ','Chọn giọng phù hợp với bài học.','Supertonic 3 là công cụ Local mặc định; VieNeu bổ sung cho tiếng Việt. Lưu công cụ, giọng và tốc độ theo ngôn ngữ. Mô hình chỉ nạp khi đọc.','screenshot-voices.png','Cấu hình giọng Local và mô hình theo ngôn ngữ'];
-features.storage=['DUNG LƯỢNG RÕ RÀNG','Biết đang lưu gì, dọn khi cần.','Xem từng nhóm mô hình và cache, mở thư mục hoặc chuyển dữ liệu vào Thùng rác. Sổ tay, hội thoại, từ vựng và API key không bị xóa qua thao tác dọn cache.','screenshot-storage.png','Lưu trữ và dữ liệu với dung lượng mô hình, nút xem thư mục và gỡ'];
+const features={"meeting": ["NGHE VÀ HIỂU", "Theo dõi cuộc họp bằng ngôn ngữ của bạn.", "Chọn nguồn âm thanh, xem tiếng gốc hoặc bản dịch và mở phụ đề nổi cạnh công việc đang làm. Lưu nội dung vào Sổ tay để xem lại, tìm kiếm và xuất tài liệu.", "screenshot-dashboard.png", "Cuộc họp với bản ghi song ngữ"], "translate": ["VIẾT RÕ RÀNG HƠN", "Dịch nhanh, đúng ngữ cảnh.", "Dịch hai chiều, chọn lĩnh vực phù hợp và sửa ngữ pháp khi cần. Hai vùng văn bản rộng, dễ đọc; có thể thay đổi cỡ chữ.", "screenshot-quick-translate.png", "Giao diện Dịch nhanh"], "reader": ["NGHE THAY VÌ ĐỌC", "Biến đoạn văn thành giọng đọc.", "Dán văn bản, chọn ngôn ngữ và giọng đã cấu hình. Điều chỉnh tốc độ, nghe lại và lưu âm thanh khi bộ giọng hỗ trợ. Có tùy chọn AI hỗ trợ cách đọc ngày tháng, số và tỷ lệ; văn bản gốc được giữ nguyên.", "screenshot-text-reader.png", "Đọc văn bản và lưu âm thanh"], "learning": ["HỌC THEO TIẾN BỘ", "Bài học sát mục tiêu của bạn.", "Học tiếng Anh, Nhật, Trung và Hàn. Ôn từ đến hạn, nghe câu mẫu và luyện tình huống. Bài học thích ứng với tiến bộ; có thể tạo bài bằng AI theo ngôn ngữ, trình độ và mục tiêu đã chọn.", "screenshot-learning.png", "Bài học hằng ngày theo mục tiêu"], "alphabet": ["CHỮ VÀ PHÁT ÂM", "Làm quen từng chữ, từng âm.", "Khám phá chữ viết theo ngôn ngữ, nghe phát âm tham chiếu và luyện viết. Mở bảng học Cùng Chip Chip để ôn tập trong cửa sổ riêng.", "screenshot-alphabet.png", "Bảng học chữ viết"], "conversation": ["LUYỆN NÓI THEO CHỦ ĐỀ", "Bắt đầu bằng một lời chào.", "Chọn chủ đề và tình huống, trợ lý sẽ mở lời khi bắt đầu. Tự chỉnh thời gian chờ gửi để có thêm thời gian suy nghĩ. Xem bản dịch tiếng Việt, lưu buổi nói và tiếp tục sau; cửa sổ trò chuyện nhỏ giúp theo dõi khi đóng bảng chính. Cần kết nối AI.", "screenshot-ai-conversation.png", "Trò chuyện theo chủ đề và thời gian chờ gửi"], "notebook": ["LƯU LẠI ĐỂ XEM LẠI", "Cuộc họp kết thúc. Nội dung vẫn ở đây.", "Lọc cuộc họp và trò chuyện, tìm câu thoại, thêm ghi chú, nghe lại và sao chép nội dung. Tiếp tục hội thoại đã lưu hoặc xuất tài liệu để chia sẻ.", "screenshot-notebook.png", "Sổ tay lưu cuộc họp và hội thoại"], "vocabulary": ["GIỮ LẠI TỪ MUỐN NHỚ", "Từ mới trở thành vốn từ của bạn.", "Lưu từ khi dịch, tra cứu nghĩa và nghe phát âm. Ôn bằng thẻ từ, đánh dấu đã thuộc và đưa từ cần ôn vào vòng học hằng ngày.", "screenshot-vocabulary.png", "Sổ từ vựng và ôn tập"], "voices": ["GIỌNG CHO TỪNG NGÔN NGỮ", "Chọn giọng dễ nghe với bạn.", "Lưu bộ giọng, giọng đọc và tốc độ riêng theo ngôn ngữ. Có giọng Offline sau khi tải và lựa chọn trực tuyến. Supertonic 3 và VieNeu dành cho những nhu cầu khác nhau; nghe thử trước khi chọn.", "screenshot-voices.png", "Chọn giọng theo ngôn ngữ"], "personal": ["GIỌNG CỦA TÔI", "Lưu và quản lý giọng của bạn.", "Thu đoạn mẫu, nghe lại và lưu trên thiết bị. Tạo hồ sơ cho bộ giọng tương thích và dùng lại bản thu gốc. Khả năng tái hiện giọng phụ thuộc bộ giọng; bản hiện tại chưa có huấn luyện bổ sung.", "screenshot-personal-voice.png", "Thư viện giọng cá nhân"], "models": ["TẢI KHI CẦN", "Quản lý các bộ giọng ở một nơi.", "Xem bộ giọng đã cài, cập nhật danh sách, chọn theo ngôn ngữ và so sánh bằng cùng một câu đọc. Dung lượng hiển thị rõ ràng; có thể gỡ bộ không dùng.", "screenshot-model-manager.png", "Quản lý mô hình và so sánh giọng đọc"], "storage": ["DUNG LƯỢNG RÕ RÀNG", "Biết đang lưu gì, dọn khi cần.", "Xem dung lượng, mở thư mục hoặc dọn dữ liệu tạm và bộ giọng không dùng. Các nút dọn dữ liệu tạm không xóa Sổ tay, từ vựng hay khóa kết nối AI.", "screenshot-storage.png", "Quản lý dung lượng"]};
 const tabs=[...document.querySelectorAll('[data-feature]')];
 function selectFeature(button){tabs.forEach(tab=>{const selected=tab===button;tab.setAttribute('aria-selected',selected);tab.tabIndex=selected?0:-1});const [tag,title,description,file,alt]=features[button.dataset.feature];document.querySelector('#feature-tag').textContent=tag;document.querySelector('#feature-title').textContent=title;document.querySelector('#feature-description').textContent=description;const image=document.querySelector('#feature-image');image.src='assets/'+file;image.alt=alt;document.querySelector('#feature-panel').setAttribute('aria-labelledby',button.id)}
 tabs.forEach((button,index)=>{button.addEventListener('click',()=>selectFeature(button));button.addEventListener('keydown',event=>{let next;if(event.key==='ArrowRight')next=(index+1)%tabs.length;if(event.key==='ArrowLeft')next=(index+tabs.length-1)%tabs.length;if(event.key==='Home')next=0;if(event.key==='End')next=tabs.length-1;if(next!==undefined){event.preventDefault();selectFeature(tabs[next]);tabs[next].focus()}})});
 const dialog=document.querySelector('#image-dialog');document.querySelector('.screenshot-button').addEventListener('click',()=>{const image=document.querySelector('#feature-image');dialog.querySelector('img').src=image.src;dialog.querySelector('img').alt=image.alt;dialog.showModal()});document.querySelector('.dialog-close').addEventListener('click',()=>dialog.close());dialog.addEventListener('click',event=>{if(event.target===dialog){const rect=dialog.getBoundingClientRect();if(event.clientX<rect.left||event.clientX>rect.right||event.clientY<rect.top||event.clientY>rect.bottom)dialog.close()}});
 document.querySelectorAll('button[data-time]').forEach(button=>button.addEventListener('click',()=>{document.querySelector('.pet-scene').dataset.time=button.dataset.time;document.querySelectorAll('button[data-time]').forEach(b=>b.setAttribute('aria-pressed',b===button))}));
 const petNames={flowers:'Chip Chip cầm hoa',coffee:'Chip Chip cầm cốc cà phê',writing:'Chip Chip viết vào sổ',sleeping:'Chip Chip ngủ với gối và chăn'};document.querySelectorAll('[data-pet]').forEach(button=>button.addEventListener('click',()=>{const image=document.querySelector('#scene-mascot');image.src='assets/chip-chip-'+button.dataset.pet+'.png';image.alt=petNames[button.dataset.pet];document.querySelectorAll('[data-pet]').forEach(b=>b.setAttribute('aria-pressed',b===button))}));
+
+selectFeature(tabs[0]);

diff --git a/docs/site.css b/docs/site.css
@@ -5,3 +5,8 @@
 #downloads{scroll-margin-top:100px}.platform-downloads{display:grid;grid-template-columns:1fr 1fr;gap:16px;margin-top:24px}.platform-download{padding:20px;border:1px solid var(--line);border-radius:16px;background:rgba(255,255,255,.65)}.platform-download strong{font-size:20px}.platform-download p{font-size:12px;line-height:1.6;margin:10px 0 16px}.platform-status{display:inline-flex;align-items:center;padding:12px 18px;border-radius:10px;background:#e1eee6;color:#287568;font-size:13px;font-weight:600}.platform-download.upcoming{background:rgba(225,238,230,.4)}@media(max-width:640px){.platform-downloads{grid-template-columns:1fr}.download-card{align-items:flex-start}.platform-download{padding:16px}}
 
 .platform-heading{display:flex;align-items:center;gap:12px}.platform-icon{display:inline-flex;align-items:center;justify-content:center;width:42px;height:42px;flex-shrink:0;border-radius:12px;background:#e1eee6;color:#287568;border:1px solid rgba(40,117,104,.12)}.platform-icon svg{width:25px;height:25px}.download-icon{width:17px;height:17px;flex-shrink:0}.platform-download .button{display:inline-flex;align-items:center;justify-content:center;gap:8px}
+/* Keep every feature visible without a long horizontal tab strip. */
+.showcase .tabs{display:grid;grid-template-columns:repeat(6,minmax(0,1fr));gap:6px;overflow:visible}
+.showcase .tabs button{min-width:0;white-space:normal;text-align:center;padding:12px 8px}
+@media(max-width:900px){.showcase .tabs{grid-template-columns:repeat(4,minmax(0,1fr))}}
+@media(max-width:600px){.showcase .tabs{grid-template-columns:repeat(2,minmax(0,1fr))}}
